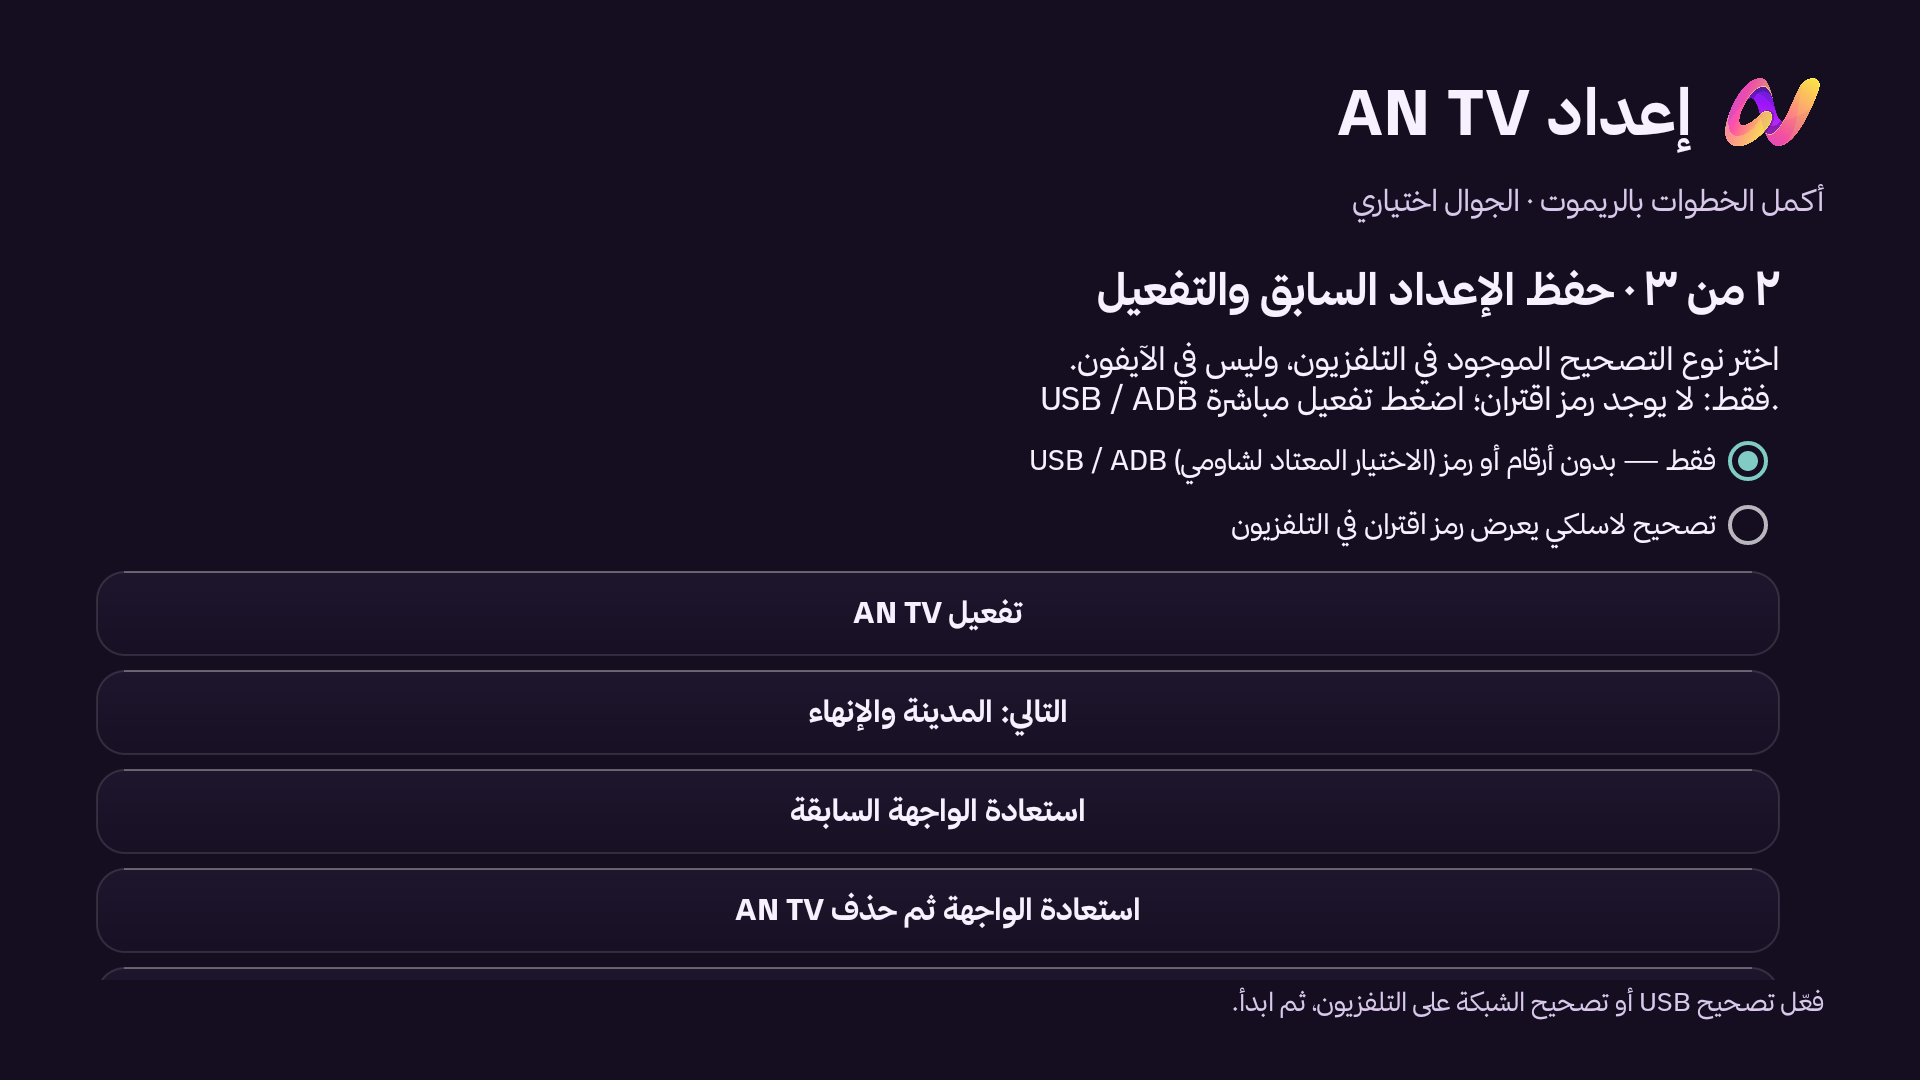
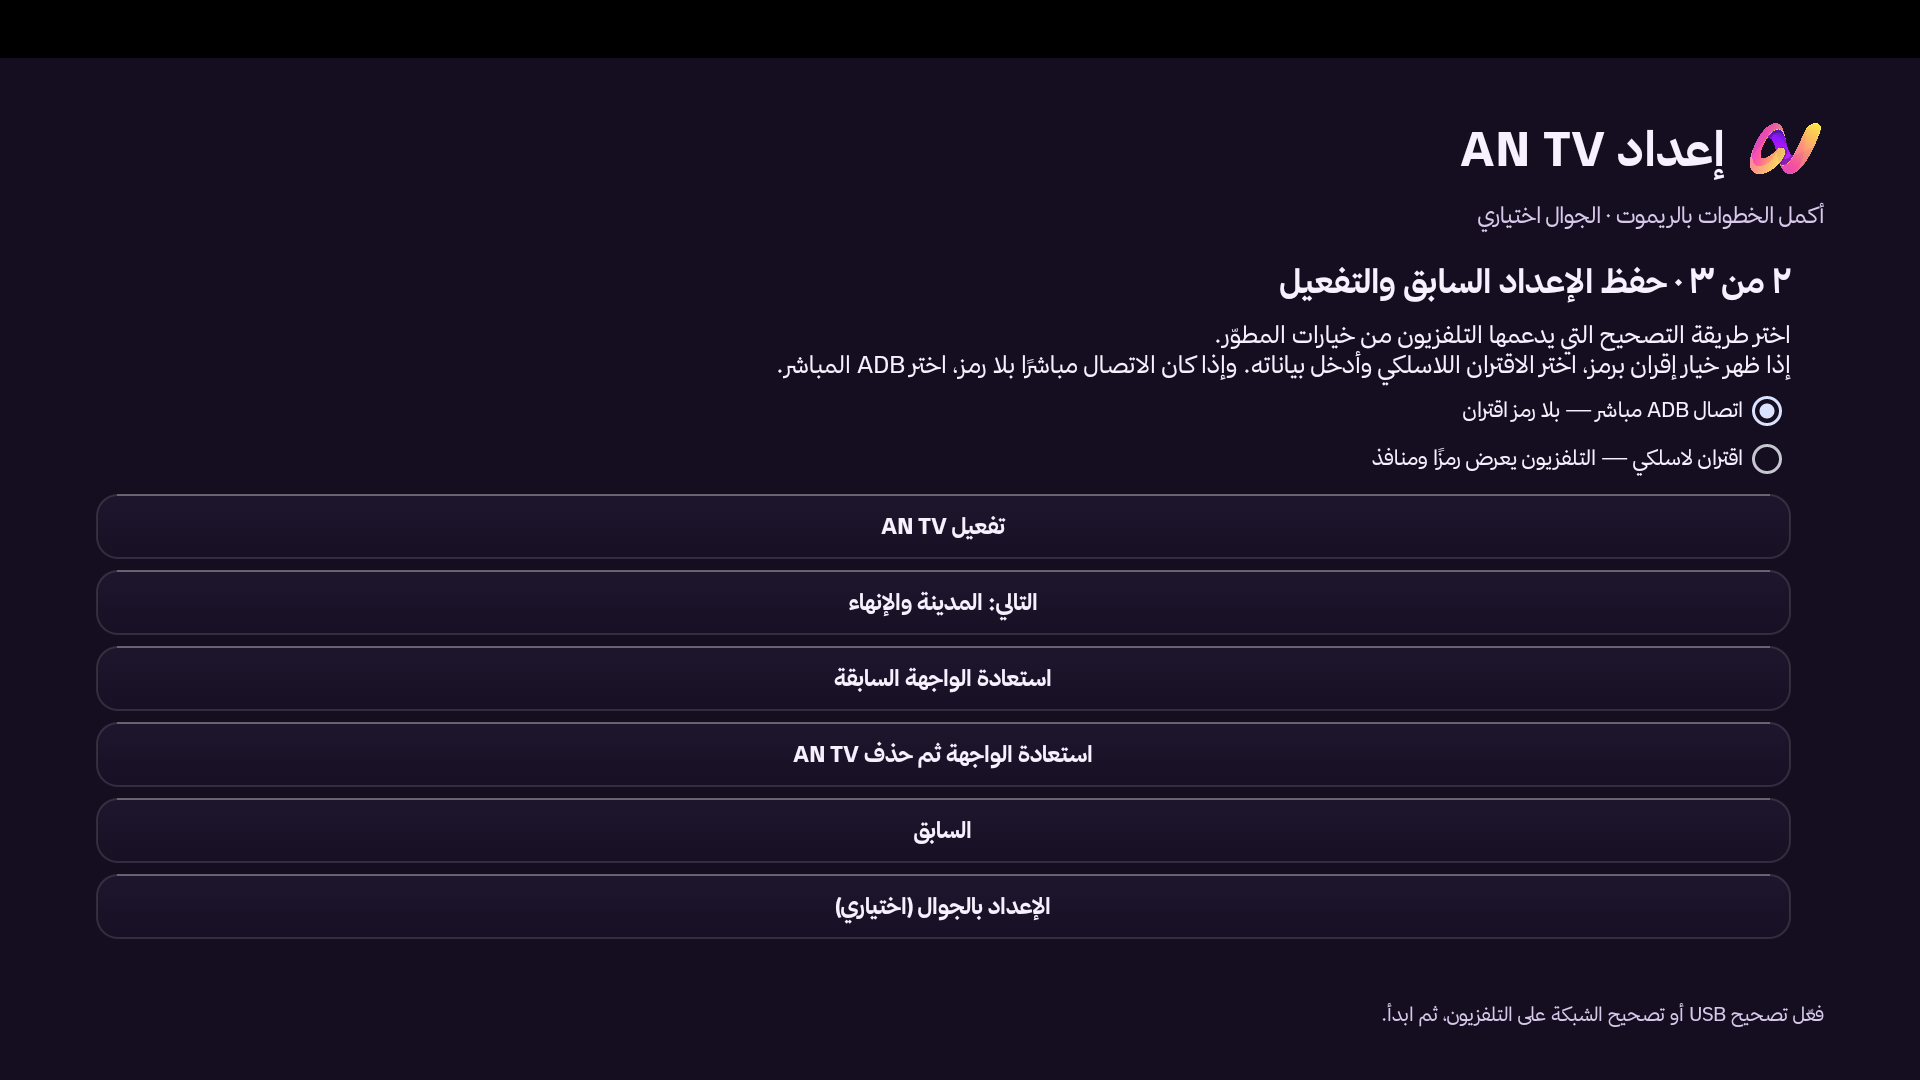
Make setup debugging guidance device-neutral

diff --git a/docs/index.html b/docs/index.html
@@ -40,7 +40,7 @@
   <main id="top" class="wrap">
     <div class="hero"><div><div class="eyebrow">Android TV · Google TV</div><h1>واجهة تلفزيونك، بطابعك.</h1><p>حمّل AN TV واجعله الصفحة الرئيسية وشاشة التوقف. التحميل والشرح المصوّر والتحديث والرجوع كلها في هذه الصفحة.</p><div class="actions"><a class="button" href="https://github.com/aij17/AN-TV-Installer/releases/latest/download/AN-TV.apk">تحميل AN TV للتلفزيون ↓</a><a class="button secondary" href="#instructions">ابدأ الشرح ↓</a></div><small class="hint">الرابط يحمل أحدث إصدار تلقائيًا · ثبّت الملف على التلفزيون، وليس على الجوال.</small></div><div class="mark" aria-hidden="true"><img src="assets/an-logo.png" alt=""></div></div>
     <section class="panel" id="install"><h2>التثبيت في ثلاث مراحل</h2><p class="sub">ابدأ من التلفزيون بتطبيق Downloader. إن تعذّر التحميل، استخدم LocalSend من الجوال.</p><div class="steps"><div class="step"><span class="n">١</span><h3>Downloader أولًا</h3><p>ثبّت Downloader على التلفزيون، وافتح فيه <strong>aij17.github.io/AN-TV-Installer</strong> ثم اضغط «تحميل AN TV». بعد نزول الملف اسمح بالتثبيت وثبّت APK.</p></div><div class="step"><span class="n">٢</span><h3>فعّل الواجهة</h3><p>افتح AN TV واتبع معالج الإعداد. فعّل تصحيح التلفزيون عندما يطلبه، ثم اضغط «تفعيل AN TV» وانتظر رسالة نجاح ضبط الرئيسية وشاشة التوقف.</p></div><div class="step"><span class="n">٣</span><h3>اختر مدينتك</h3><p>اختر المنطقة والمدينة، ثم «إنهاء وفتح الرئيسية». جرّب زر الرئيسية وأعد تشغيل التلفزيون للتأكد من استمرار الاختيار.</p></div></div></section>
-    <section class="panel" id="instructions"><h2>الشرح خطوة بخطوة</h2><div class="instructions"><div class="instruction"><h3>١ · افتح Downloader على التلفزيون</h3><p>من متجر التلفزيون ثبّت Downloader. افتحه واكتب <code>aij17.github.io/AN-TV-Installer</code>، ثم افتح الصفحة واضغط «تحميل AN TV للتلفزيون». بعد نزول الملف، وافق على «السماح بالتثبيت من هذا المصدر»، ثم اختر «تثبيت».</p></div><div class="instruction"><h3>٢ · LocalSend بديل إذا تعذّر Downloader</h3><p>نزّل APK على الجوال من زر التحميل أعلى هذه الصفحة، وثبّت LocalSend على الجوال والتلفزيون. وصّلهما بنفس شبكة الواي فاي، ثم أرسل الملف إلى التلفزيون وافتحه هناك. عند التحميل المباشر على التلفزيون لا تحتاج أن يكون الجوال معه على الشبكة نفسها.</p></div><div class="instruction"><h3>٣ · فعّل خيارات المطوّر</h3><p>افتح AN TV واضغط «فتح خيارات المطوّر». فعّل «تصحيح USB» أو «تصحيح الشبكة» بحسب ما يعرضه جهازك، ثم ارجع إلى AN TV. إذا لم تظهر أرقام الاقتران، اختر وضع USB / ADB فقط داخل المعالج؛ لا تكتب أرقامًا تخمينية.</p></div><div class="instruction"><h3>٤ · فعّل AN TV</h3><p>اضغط «تفعيل AN TV»، ووافق على رسالة السماح بالتصحيح إذا ظهرت. انتظر رسالة نجاح ضبط الرئيسية وشاشة التوقف قبل الانتقال للخطوة التالية. إن فشل التفعيل، اقرأ رسالة الخطأ الظاهرة في أسفل الشاشة.</p></div><div class="instruction"><h3>٥ · اختر مدينتك وأنهِ الإعداد</h3><p>اختر المنطقة والمدينة ثم «إنهاء وفتح الرئيسية». جرّب زر الرئيسية، ثم أعد تشغيل التلفزيون وتحقق من استمرار AN TV كواجهة رئيسية.</p></div></div><div class="sadu" aria-hidden="true"></div><div class="visuals"><figure><img loading="lazy" src="assets/current-downloader-site.png" alt="صفحة AN TV داخل تطبيق Downloader"><figcaption>افتح هذا العنوان في Downloader ثم اضغط زر التحميل.</figcaption></figure><figure><img loading="lazy" src="assets/current-setup.png" alt="الخطوة الأولى في معالج إعداد AN TV"><figcaption>افتح خيارات المطوّر وفعّل التصحيح.</figcaption></figure><figure><img loading="lazy" src="assets/current-setup-2.png" alt="اختيار نوع التصحيح وتفعيل AN TV"><figcaption>اختر USB / ADB إذا لم تظهر أرقام الاقتران، ثم فعّل AN TV.</figcaption></figure><figure><img loading="lazy" src="assets/current-setup-3.png" alt="المدينة والإنهاء في معالج الإعداد"><figcaption>اختر المدينة ثم افتح الرئيسية.</figcaption></figure></div><p class="note">الصور توضيحية؛ قد تختلف أسماء القوائم قليلًا حسب الشركة وإصدار Android TV.</p></section>
+    <section class="panel" id="instructions"><h2>الشرح خطوة بخطوة</h2><div class="instructions"><div class="instruction"><h3>١ · افتح Downloader على التلفزيون</h3><p>من متجر التلفزيون ثبّت Downloader. افتحه واكتب <code>aij17.github.io/AN-TV-Installer</code>، ثم افتح الصفحة واضغط «تحميل AN TV للتلفزيون». بعد نزول الملف، وافق على «السماح بالتثبيت من هذا المصدر»، ثم اختر «تثبيت».</p></div><div class="instruction"><h3>٢ · LocalSend بديل إذا تعذّر Downloader</h3><p>نزّل APK على الجوال من زر التحميل أعلى هذه الصفحة، وثبّت LocalSend على الجوال والتلفزيون. وصّلهما بنفس شبكة الواي فاي، ثم أرسل الملف إلى التلفزيون وافتحه هناك. عند التحميل المباشر على التلفزيون لا تحتاج أن يكون الجوال معه على الشبكة نفسها.</p></div><div class="instruction"><h3>٣ · فعّل خيارات المطوّر</h3><p>افتح AN TV واضغط «فتح خيارات المطوّر». فعّل التصحيح المتاح في خيارات المطوّر على التلفزيون، ثم ارجع إلى AN TV. بعض الأجهزة تعرض «إقران برمز»، وأجهزة أخرى تتيح اتصال ADB مباشرًا بلا رمز. اختر في المعالج ما يطابق ما يظهر على تلفزيونك؛ لا تكتب أرقامًا تخمينية.</p></div><div class="instruction"><h3>٤ · فعّل AN TV</h3><p>اضغط «تفعيل AN TV»، ووافق على رسالة السماح بالتصحيح إذا ظهرت. انتظر رسالة نجاح ضبط الرئيسية وشاشة التوقف قبل الانتقال للخطوة التالية. إن فشل التفعيل، اقرأ رسالة الخطأ الظاهرة في أسفل الشاشة.</p></div><div class="instruction"><h3>٥ · اختر مدينتك وأنهِ الإعداد</h3><p>اختر المنطقة والمدينة ثم «إنهاء وفتح الرئيسية». جرّب زر الرئيسية، ثم أعد تشغيل التلفزيون وتحقق من استمرار AN TV كواجهة رئيسية.</p></div></div><div class="sadu" aria-hidden="true"></div><div class="visuals"><figure><img loading="lazy" src="assets/current-downloader-site.png" alt="صفحة AN TV داخل تطبيق Downloader"><figcaption>افتح هذا العنوان في Downloader ثم اضغط زر التحميل.</figcaption></figure><figure><img loading="lazy" src="assets/current-setup.png" alt="الخطوة الأولى في معالج إعداد AN TV"><figcaption>افتح خيارات المطوّر وفعّل التصحيح.</figcaption></figure><figure><img loading="lazy" src="assets/current-setup-2.png" alt="اختيار نوع التصحيح وتفعيل AN TV"><figcaption>اختر طريقة التصحيح التي يدعمها تلفزيونك، ثم اضغط «تفعيل AN TV».</figcaption></figure><figure><img loading="lazy" src="assets/current-setup-3.png" alt="المدينة والإنهاء في معالج الإعداد"><figcaption>اختر المدينة ثم افتح الرئيسية.</figcaption></figure></div><p class="note">الصور توضيحية؛ قد تختلف أسماء القوائم قليلًا حسب الشركة وإصدار Android TV.</p></section>
     <section class="panel" id="preview"><h2>هذه واجهة AN TV</h2><div class="visuals"><figure><img loading="lazy" src="assets/current-home.png" alt="الصفحة الرئيسية في AN TV"><figcaption>الصفحة الرئيسية</figcaption></figure><figure><img loading="lazy" src="assets/current-saver.png" alt="شاشة التوقف في AN TV"><figcaption>شاشة التوقف</figcaption></figure></div></section>
     <section class="panel" id="features"><h2>مميزات AN TV</h2><p class="sub">واجهة رئيسية وشاشة توقف عربية مصممة للريموت، بخط ثمانية ولمسات السدو والزجاج الخزامي.</p><div class="catalog"><article><h3>الرئيسية على مقاسك</h3><p>تطبيقات مفضلة، بث حي صامت لقناة القرآن الكريم، وتوقيت الصلاة القادمة، مع اختيار المدينة من الشاشة.</p></article><article><h3>شاشة توقف حيّة</h3><p>ساعة وتاريخ هجري وميلادي، الطقس، المناسبة القادمة، نجوم السنة، وآية أو حديث يتبدلان يوميًا.</p></article><article><h3>تنبيه الأذان</h3><p>شريط زجاجي فوق التطبيقات عند الصلاة إذا سمح الجهاز بالظهور فوقها. اختر مؤذنًا، أذانًا كاملًا أو مقطعًا قصيرًا أو تنبيهًا صامتًا، واضبط المدة ووضوح الصوت وجرّب المعاينة من الإعدادات.</p></article><article><h3>الصور والتحديث</h3><p>٢٢ خلفية محفوظة تعمل دون إنترنت، وصور جديدة عند الاتصال، مع اسم المصور. يتيح التطبيق تحديث نفسه واستعادة اختيار الواجهة السابقة.</p></article></div></section>
     <section class="panel" id="sources"><h2>من أين تأتي المعلومات؟</h2><p class="sub">تجد هذه القائمة أيضًا داخل التلفزيون: إعدادات AN TV ← مصادر AN TV. ولرابط كل صورة على حدة: مصادر الصور.</p><div class="catalog"><article><h3>مواقيت الصلاة والتقويم</h3><p>خدمة <a href="https://www.ummulqura.org.sa/ar">تقويم أم القرى</a> الرسمية عبر مدينة الملك عبدالعزيز للعلوم والتقنية؛ حساب محلي عند انقطاع الاتصال.</p></article><article><h3>رمضان والأعياد والنجوم</h3><p>تواريخ المناسبات وجدول النجوم من <a href="https://aij17.github.io/ramadan-countdown/">موقع دُنُوّ</a>. تُحفظ نسخة للعمل دون إنترنت.</p></article><article><h3>آية اليوم والتفسير</h3><p>نص القرآن و«التفسير الميسر» عبر <a href="https://alquran.cloud">api.alquran.cloud</a>؛ آيات مختارة محفوظة داخل التطبيق مع اسم السورة ورقم الآية.</p></article><article><h3>حديث اليوم</h3><p>مجموعة أحاديث موثقة من الكتب الستة باستخدام <a href="https://github.com/fawazahmed0/hadith-api">Hadith API</a>؛ يظهر مصدر الحديث معه.</p></article><article><h3>الطقس والغبار</h3><p>حالة الطقس من <a href="https://open-meteo.com">Open-Meteo</a>، والغبار من متغير dust في <a href="https://open-meteo.com/en/docs/air-quality-api">خدمة جودة الهواء</a>. الجسيمات PM10 تُعرض منفصلة؛ هذه تقديرات نموذج وليست رصدًا مباشرًا. لم يُربط المركز الوطني للأرصاد لأن واجهته تحتاج حساب وصول معتمدًا.</p></article><article><h3>الخلفيات</h3><p>٢٢ صورة محفوظة من Google Chromecast، وصور طبيعة وحيوانات متجددة من <a href="https://commons.wikimedia.org">Wikimedia Commons</a>. يعرض AN TV المصور، وفي الإعدادات رابط كل صورة محفوظة أو حالية.</p></article><article><h3>القرآن والأذان</h3><p>معاينة قناة القرآن الكريم السعودية، وفتح <a href="https://www.youtube.com/@SaudiQuranTv/live">بثها المباشر</a> عند الاختيار. التلاوات من <a href="https://mp3quran.net">mp3quran.net</a> وتسجيلات الأذان من Archive.org ومصادرها الموثقة.</p></article><article><h3>اختيار المدينة</h3><p>قائمة مناطق ومدن سعودية داخل التطبيق؛ البحث الإضافي يستخدم <a href="https://open-meteo.com/en/docs/geocoding-api">Open-Meteo Geocoding</a>.</p></article></div></section>
